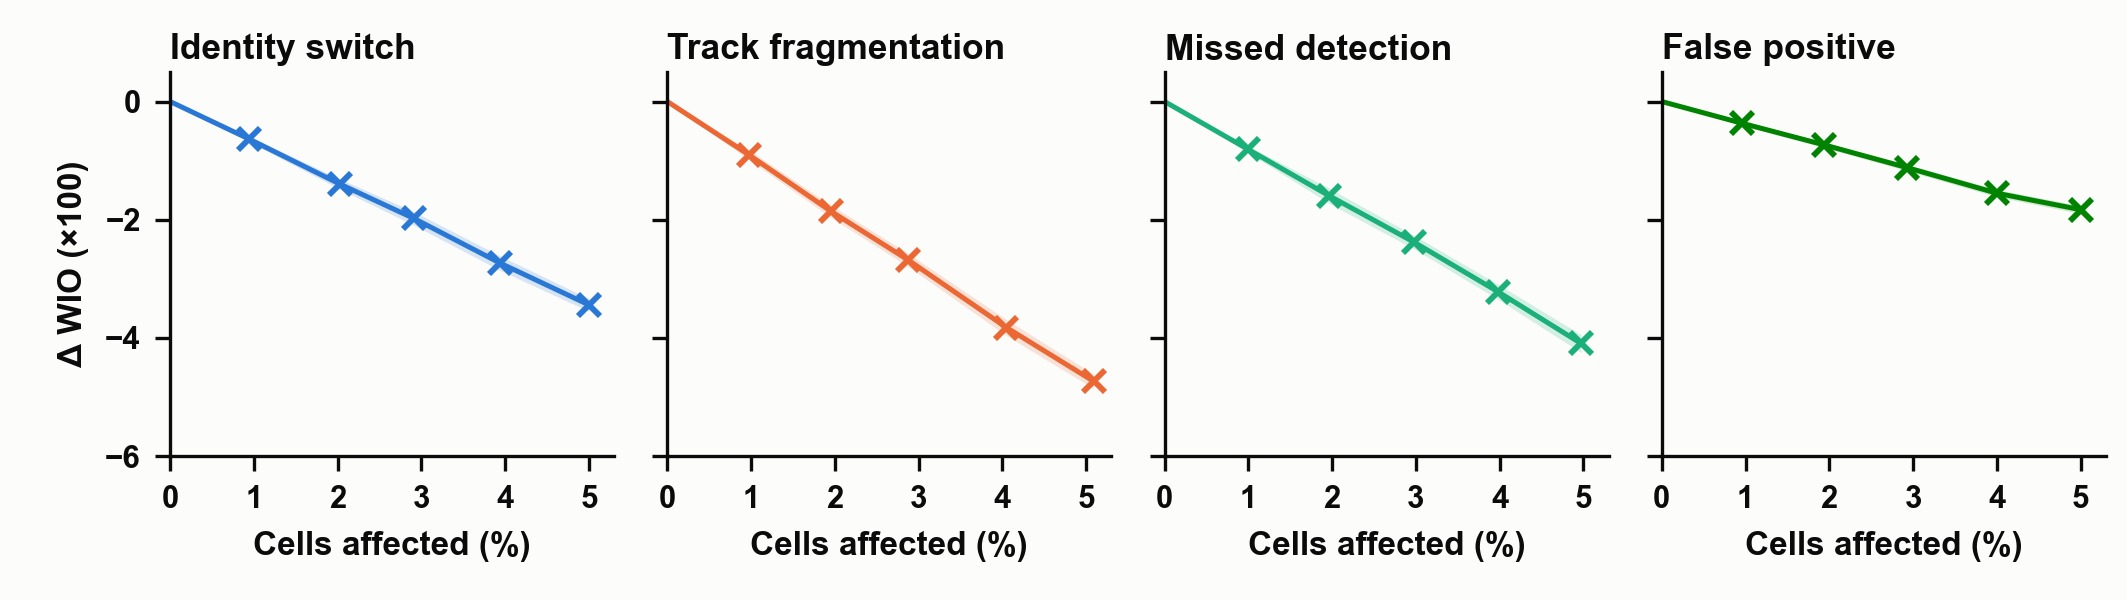
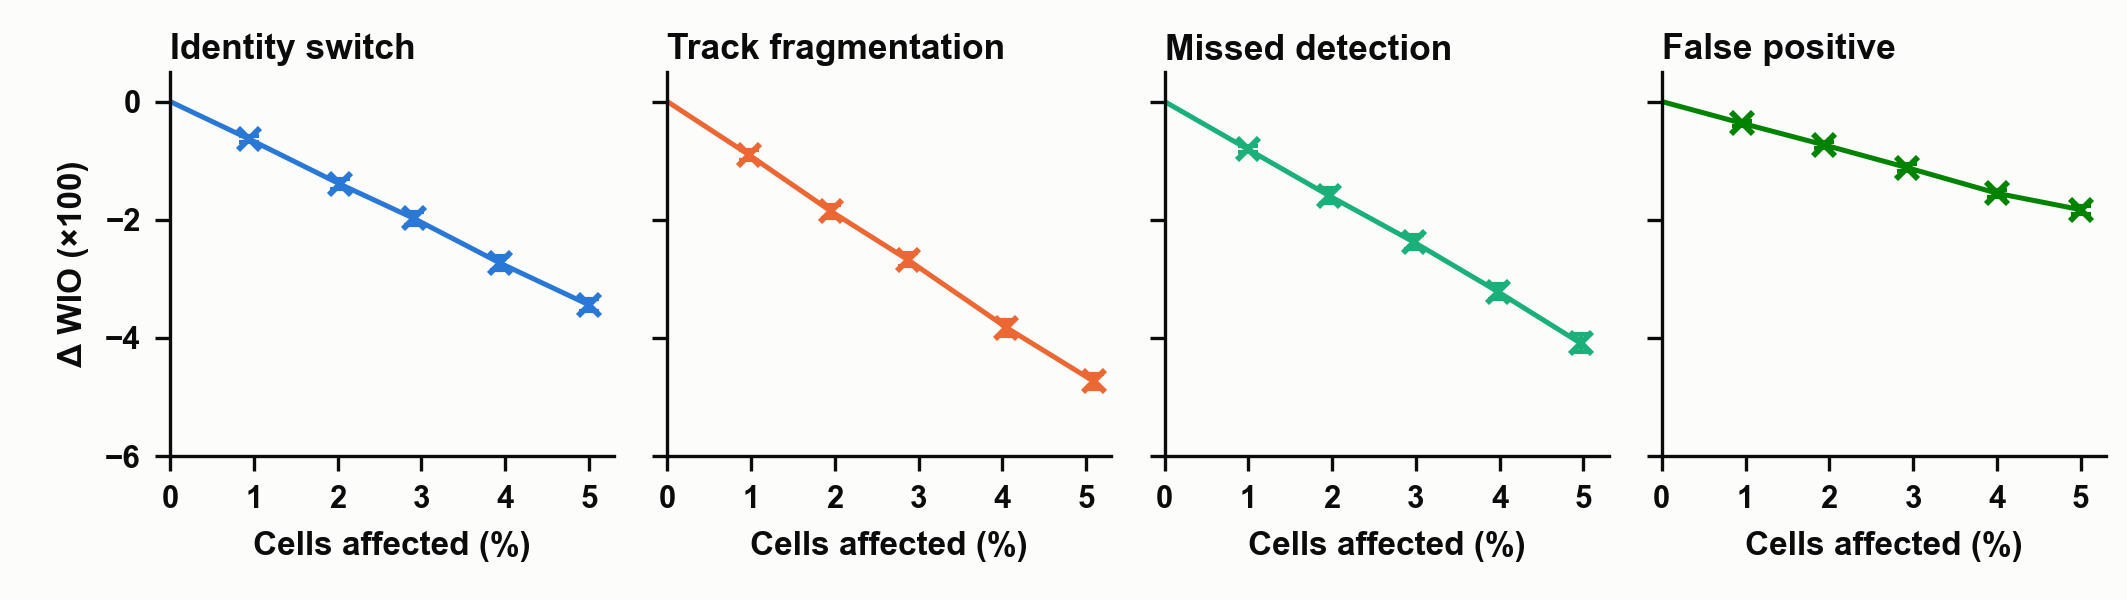
Figure 1 calibration: 95% CI as error bars instead of shaded band

diff --git a/scripts/make_fig1.py b/scripts/make_fig1.py
@@ -260,8 +260,9 @@ def _calibration_fine(metric: str, ylabel: str, stem: str, ylim=(-6, 0.5)):
         a = pp.groupby("rate").agg(x=("x", "mean"), y=("y", "mean"), sd=("y", "std"), n=("y", "size"))
         ci = 1.96 * a.sd / np.sqrt(a.n)
         x, y = np.r_[0, 100 * a.x], np.r_[0, 100 * a.y]
-        ax.fill_between(x, y - np.r_[0, 100 * ci], y + np.r_[0, 100 * ci], color=fs.SERIES[t], alpha=0.18, lw=0)
-        ax.plot(x[1:], y[1:], color=fs.SERIES[t], ls="", marker="x", ms=5.5, mew=1.4, zorder=3)
+        ax.errorbar(x[1:], y[1:], yerr=100 * ci.values, fmt="none", ecolor=fs.SERIES[t], elinewidth=1.0,
+                    capsize=2.5, capthick=1.0, zorder=3)
+        ax.plot(x[1:], y[1:], color=fs.SERIES[t], ls="", marker="x", ms=5.5, mew=1.4, zorder=4)
         ax.plot(x, y, color=fs.SERIES[t], lw=1.2, solid_capstyle="round", zorder=2)
         ax.set_title(fs.LABELS[t], loc="left", pad=3)
         ax.set_xlim(0, 5.3); ax.set_xticks([0, 1, 2, 3, 4, 5]); ax.set_ylim(*ylim)
